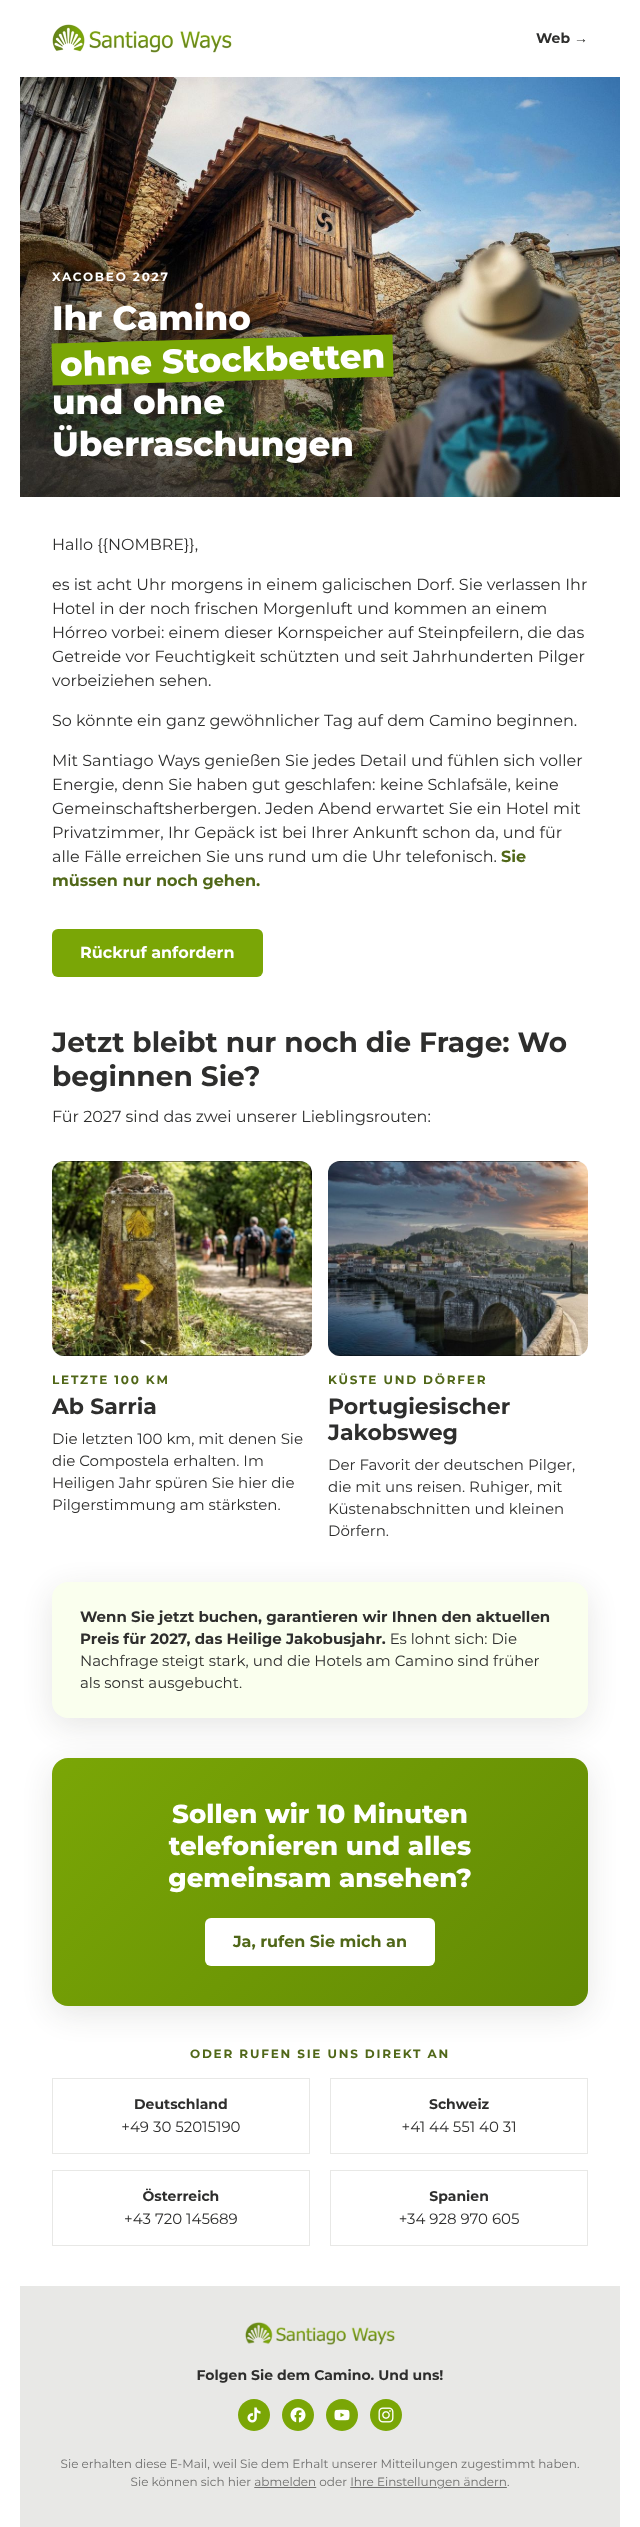
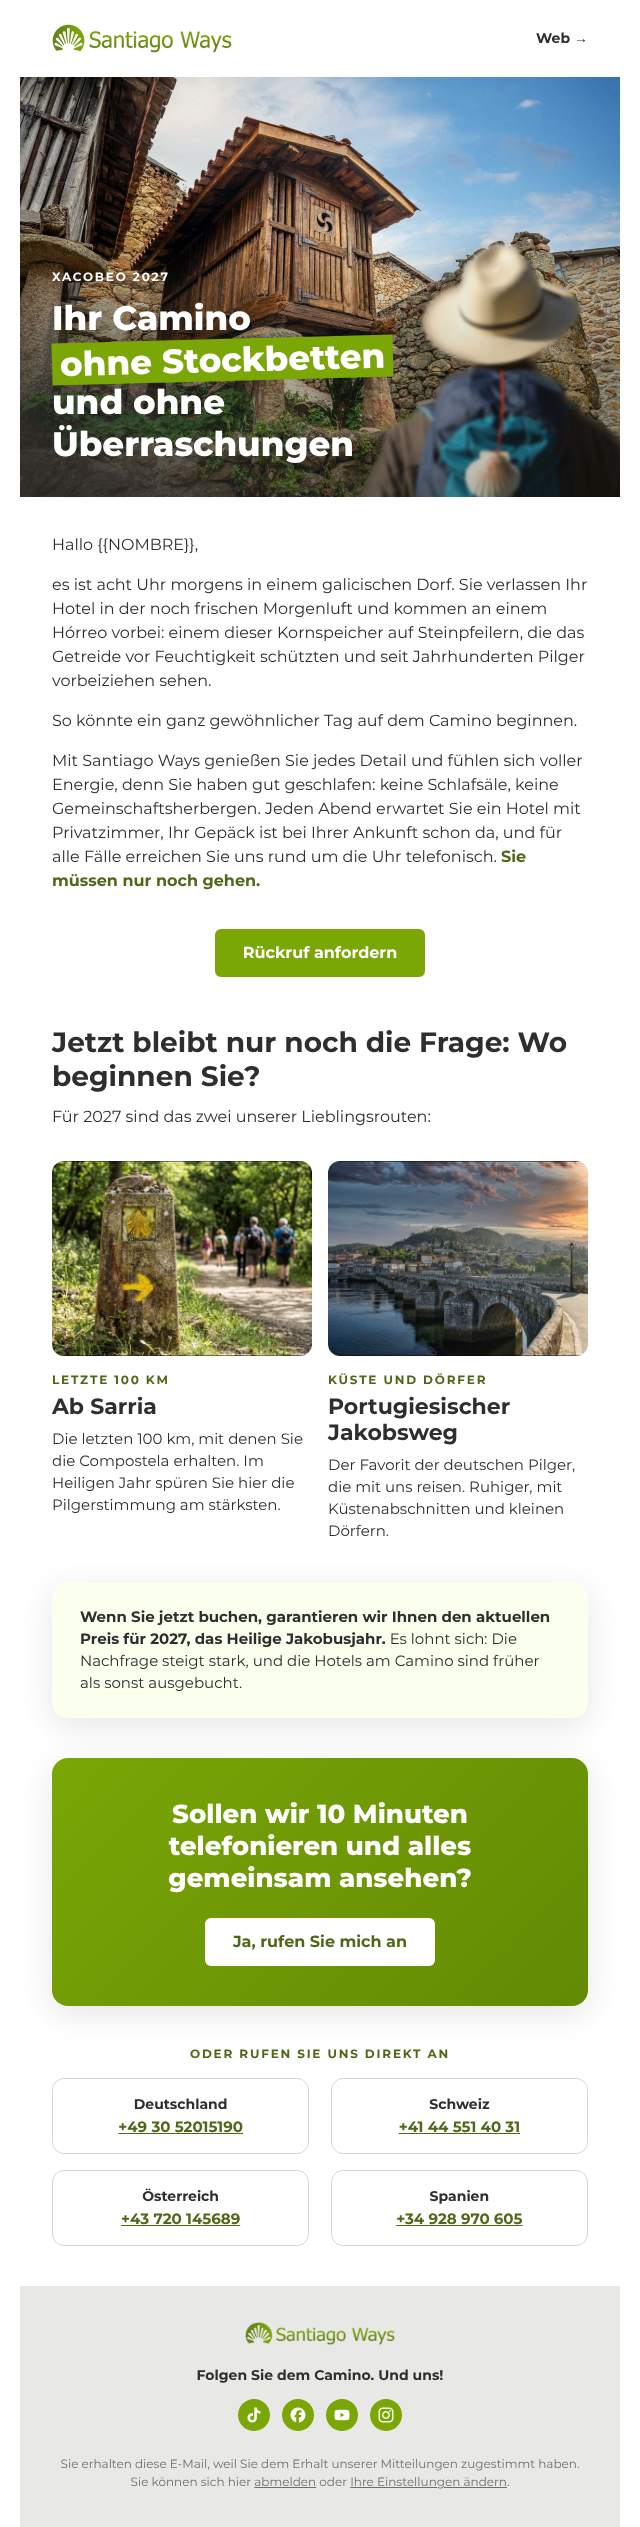
Añade enlaces definitivos, centra el CTA y redondea las tarjetas de teléfono
Claude-Session: https://claude.ai/code/session_01Me985ukrjjPqHCtXmJhT7t

diff --git a/emails/2026-10-push-de-envio1/email.html b/emails/2026-10-push-de-envio1/email.html
@@ -106,11 +106,11 @@
 
           <!-- CTA principal -->
           <tr>
-            <td class="pad" align="left" style="padding:28px 32px 48px;">
-              <table role="presentation" cellpadding="0" cellspacing="0" border="0">
+            <td class="pad" align="center" style="padding:28px 32px 48px;">
+              <table role="presentation" cellpadding="0" cellspacing="0" border="0" align="center">
                 <tr>
                   <td bgcolor="#7AA606" style="background-color:#7AA606; border-radius:6px;">
-                    <a href="{{URL_ZOHO_FORMS_CTA_ARRIBA}}" target="_blank" style="display:inline-block; padding:14px 28px; font-family:'Montserrat', Arial, Helvetica, sans-serif; font-size:16px; line-height:20px; font-weight:700; color:#FFFFFF; text-decoration:none; border-radius:6px;">Rückruf anfordern</a>
+                    <a href="https://forms.zohopublic.com/santiagoways/form/rueckruf/formperma/4A1Vr0SY3x6PB5LVbDz1jbqyLyayzFhMqCk7CxDHHfw" target="_blank" style="display:inline-block; padding:14px 28px; font-family:'Montserrat', Arial, Helvetica, sans-serif; font-size:16px; line-height:20px; font-weight:700; color:#FFFFFF; text-decoration:none; border-radius:6px;">Rückruf anfordern</a>
                   </td>
                 </tr>
               </table>
@@ -131,16 +131,16 @@
               <table role="presentation" width="100%" cellpadding="0" cellspacing="0" border="0">
                 <tr>
                   <td class="ruta" width="260" valign="top" style="width:260px; font-family:'Montserrat', Arial, Helvetica, sans-serif;">
-                    <a href="{{URL_RUTA_SARRIA}}" target="_blank"><img class="ruta-img" src="img/ruta-sarria.jpg" width="260" alt="Steinerner Wegweiser mit gelber Muschel und Pfeil, dahinter Pilger auf einem Waldweg bei Sarria" style="display:block; border:0; width:260px; max-width:260px; height:auto; border-radius:12px;"></a>
+                    <a href="https://santiagoways.com/de/der-jakobsweg/camino-frances/ab-sarria/?utm_source=zoho_campaigns&amp;utm_medium=newsletter&amp;utm_campaign=push_de&amp;utm_content=envio1" target="_blank"><img class="ruta-img" src="img/ruta-sarria.jpg" width="260" alt="Steinerner Wegweiser mit gelber Muschel und Pfeil, dahinter Pilger auf einem Waldweg bei Sarria" style="display:block; border:0; width:260px; max-width:260px; height:auto; border-radius:12px;"></a>
                     <p style="margin:16px 0 6px; font-size:12px; line-height:16px; font-weight:700; letter-spacing:0.15em; text-transform:uppercase; color:#506718;">Letzte 100 km</p>
-                    <p class="ruta-t" style="margin:0 0 8px; font-size:22px; line-height:26px; font-weight:700;"><a href="{{URL_RUTA_SARRIA}}" target="_blank" style="color:#2E2E2D; text-decoration:none;">Ab Sarria</a></p>
+                    <p class="ruta-t" style="margin:0 0 8px; font-size:22px; line-height:26px; font-weight:700;"><a href="https://santiagoways.com/de/der-jakobsweg/camino-frances/ab-sarria/?utm_source=zoho_campaigns&amp;utm_medium=newsletter&amp;utm_campaign=push_de&amp;utm_content=envio1" target="_blank" style="color:#2E2E2D; text-decoration:none;">Ab Sarria</a></p>
                     <p class="ruta-p" style="margin:0; font-size:15px; line-height:22px; color:#2E2E2D;">Die letzten 100 km, mit denen Sie die Compostela erhalten. Im Heiligen Jahr spüren Sie hier die Pilgerstimmung am stärksten.</p>
                   </td>
                   <td class="ruta-sep" width="16" style="width:16px; font-size:0; line-height:0;">&nbsp;</td>
                   <td class="ruta" width="260" valign="top" style="width:260px; font-family:'Montserrat', Arial, Helvetica, sans-serif;">
-                    <a href="{{URL_RUTA_PORTUGUES}}" target="_blank"><img class="ruta-img" src="img/ruta-portugues.jpg" width="260" alt="Alte Steinbrücke über einen Fluss, dahinter ein Dorf am Portugiesischen Jakobsweg bei Sonnenuntergang" style="display:block; border:0; width:260px; max-width:260px; height:auto; border-radius:12px;"></a>
+                    <a href="https://santiagoways.com/de/der-jakobsweg/camino-portugues-kuestenweg/ab-baiona/?utm_source=zoho_campaigns&amp;utm_medium=newsletter&amp;utm_campaign=push_de&amp;utm_content=envio1" target="_blank"><img class="ruta-img" src="img/ruta-portugues.jpg" width="260" alt="Alte Steinbrücke über einen Fluss, dahinter ein Dorf am Portugiesischen Jakobsweg bei Sonnenuntergang" style="display:block; border:0; width:260px; max-width:260px; height:auto; border-radius:12px;"></a>
                     <p style="margin:16px 0 6px; font-size:12px; line-height:16px; font-weight:700; letter-spacing:0.15em; text-transform:uppercase; color:#506718;">Küste und Dörfer</p>
-                    <p class="ruta-t" style="margin:0 0 8px; font-size:22px; line-height:26px; font-weight:700;"><a href="{{URL_RUTA_PORTUGUES}}" target="_blank" style="color:#2E2E2D; text-decoration:none;">Portugiesischer Jakobsweg</a></p>
+                    <p class="ruta-t" style="margin:0 0 8px; font-size:22px; line-height:26px; font-weight:700;"><a href="https://santiagoways.com/de/der-jakobsweg/camino-portugues-kuestenweg/ab-baiona/?utm_source=zoho_campaigns&amp;utm_medium=newsletter&amp;utm_campaign=push_de&amp;utm_content=envio1" target="_blank" style="color:#2E2E2D; text-decoration:none;">Portugiesischer Jakobsweg</a></p>
                     <p class="ruta-p" style="margin:0; font-size:15px; line-height:22px; color:#2E2E2D;">Der Favorit der deutschen Pilger, die mit uns reisen. Ruhiger, mit Küstenabschnitten und kleinen Dörfern.</p>
                   </td>
                 </tr>
@@ -171,7 +171,7 @@
                     <table role="presentation" cellpadding="0" cellspacing="0" border="0" align="center">
                       <tr>
                         <td bgcolor="#FFFFFF" style="background-color:#FFFFFF; border-radius:6px;">
-                          <a href="{{URL_ZOHO_FORMS_CTA_CIERRE}}" target="_blank" style="display:inline-block; padding:14px 28px; font-family:'Montserrat', Arial, Helvetica, sans-serif; font-size:16px; line-height:20px; font-weight:700; color:#506718; text-decoration:none; border-radius:6px;">Ja, rufen Sie mich an</a>
+                          <a href="https://forms.zohopublic.com/santiagoways/form/rueckruf/formperma/4A1Vr0SY3x6PB5LVbDz1jbqyLyayzFhMqCk7CxDHHfw" target="_blank" style="display:inline-block; padding:14px 28px; font-family:'Montserrat', Arial, Helvetica, sans-serif; font-size:16px; line-height:20px; font-weight:700; color:#506718; text-decoration:none; border-radius:6px;">Ja, rufen Sie mich an</a>
                         </td>
                       </tr>
                     </table>
@@ -189,26 +189,38 @@
                   <td colspan="3" align="center" style="padding:0 0 16px; font-family:'Montserrat', Arial, Helvetica, sans-serif; font-size:12px; line-height:16px; font-weight:700; letter-spacing:0.15em; text-transform:uppercase; color:#506718;">Oder rufen Sie uns direkt an</td>
                 </tr>
                 <tr>
-                  <td width="48%" align="center" style="width:48%; border:1px solid #E8E8E6; border-radius:12px; padding:16px 8px; font-family:'Montserrat', Arial, Helvetica, sans-serif; color:#2E2E2D;">
-                    <p style="margin:0 0 4px; font-size:14px; line-height:18px; font-weight:700;">Deutschland</p>
-                    <a class="tel" href="tel:+493052015190" style="font-size:15px; line-height:20px; color:#2E2E2D; text-decoration:none;">+49 30 52015190</a>
+                  <td width="48%" valign="top" style="width:48%;">
+                    <table role="presentation" width="100%" cellpadding="0" cellspacing="0" border="0" style="border-collapse:separate; border:1px solid #D6D6D3; border-radius:12px; background-color:#FFFFFF;">
+                      <tr>
+                        <td align="center" style="border-radius:12px; font-family:'Montserrat', Arial, Helvetica, sans-serif;"><a href="tel:+493052015190" style="display:block; padding:16px 8px; color:#2E2E2D; text-decoration:none;"><span style="display:block; font-size:14px; line-height:18px; font-weight:700; color:#2E2E2D;">Deutschland</span><span class="tel" style="display:block; margin-top:4px; font-size:15px; line-height:20px; color:#506718; font-weight:700; text-decoration:underline;">+49 30 52015190</span></a></td>
+                      </tr>
+                    </table>
                   </td>
                   <td width="16" style="width:16px; font-size:0; line-height:0;">&nbsp;</td>
-                  <td width="48%" align="center" style="width:48%; border:1px solid #E8E8E6; border-radius:12px; padding:16px 8px; font-family:'Montserrat', Arial, Helvetica, sans-serif; color:#2E2E2D;">
-                    <p style="margin:0 0 4px; font-size:14px; line-height:18px; font-weight:700;">Schweiz</p>
-                    <a class="tel" href="tel:+41445514031" style="font-size:15px; line-height:20px; color:#2E2E2D; text-decoration:none;">+41 44 551 40 31</a>
+                  <td width="48%" valign="top" style="width:48%;">
+                    <table role="presentation" width="100%" cellpadding="0" cellspacing="0" border="0" style="border-collapse:separate; border:1px solid #D6D6D3; border-radius:12px; background-color:#FFFFFF;">
+                      <tr>
+                        <td align="center" style="border-radius:12px; font-family:'Montserrat', Arial, Helvetica, sans-serif;"><a href="tel:+41445514031" style="display:block; padding:16px 8px; color:#2E2E2D; text-decoration:none;"><span style="display:block; font-size:14px; line-height:18px; font-weight:700; color:#2E2E2D;">Schweiz</span><span class="tel" style="display:block; margin-top:4px; font-size:15px; line-height:20px; color:#506718; font-weight:700; text-decoration:underline;">+41 44 551 40 31</span></a></td>
+                      </tr>
+                    </table>
                   </td>
                 </tr>
                 <tr><td colspan="3" height="16" style="height:16px; font-size:0; line-height:0;">&nbsp;</td></tr>
                 <tr>
-                  <td width="48%" align="center" style="width:48%; border:1px solid #E8E8E6; border-radius:12px; padding:16px 8px; font-family:'Montserrat', Arial, Helvetica, sans-serif; color:#2E2E2D;">
-                    <p style="margin:0 0 4px; font-size:14px; line-height:18px; font-weight:700;">Österreich</p>
-                    <a class="tel" href="tel:+43720145689" style="font-size:15px; line-height:20px; color:#2E2E2D; text-decoration:none;">+43 720 145689</a>
+                  <td width="48%" valign="top" style="width:48%;">
+                    <table role="presentation" width="100%" cellpadding="0" cellspacing="0" border="0" style="border-collapse:separate; border:1px solid #D6D6D3; border-radius:12px; background-color:#FFFFFF;">
+                      <tr>
+                        <td align="center" style="border-radius:12px; font-family:'Montserrat', Arial, Helvetica, sans-serif;"><a href="tel:+43720145689" style="display:block; padding:16px 8px; color:#2E2E2D; text-decoration:none;"><span style="display:block; font-size:14px; line-height:18px; font-weight:700; color:#2E2E2D;">Österreich</span><span class="tel" style="display:block; margin-top:4px; font-size:15px; line-height:20px; color:#506718; font-weight:700; text-decoration:underline;">+43 720 145689</span></a></td>
+                      </tr>
+                    </table>
                   </td>
                   <td width="16" style="width:16px; font-size:0; line-height:0;">&nbsp;</td>
-                  <td width="48%" align="center" style="width:48%; border:1px solid #E8E8E6; border-radius:12px; padding:16px 8px; font-family:'Montserrat', Arial, Helvetica, sans-serif; color:#2E2E2D;">
-                    <p style="margin:0 0 4px; font-size:14px; line-height:18px; font-weight:700;">Spanien</p>
-                    <a class="tel" href="tel:+34928970605" style="font-size:15px; line-height:20px; color:#2E2E2D; text-decoration:none;">+34 928 970 605</a>
+                  <td width="48%" valign="top" style="width:48%;">
+                    <table role="presentation" width="100%" cellpadding="0" cellspacing="0" border="0" style="border-collapse:separate; border:1px solid #D6D6D3; border-radius:12px; background-color:#FFFFFF;">
+                      <tr>
+                        <td align="center" style="border-radius:12px; font-family:'Montserrat', Arial, Helvetica, sans-serif;"><a href="tel:+34928970605" style="display:block; padding:16px 8px; color:#2E2E2D; text-decoration:none;"><span style="display:block; font-size:14px; line-height:18px; font-weight:700; color:#2E2E2D;">Spanien</span><span class="tel" style="display:block; margin-top:4px; font-size:15px; line-height:20px; color:#506718; font-weight:700; text-decoration:underline;">+34 928 970 605</span></a></td>
+                      </tr>
+                    </table>
                   </td>
                 </tr>
               </table>
@@ -222,10 +234,10 @@
               <p style="margin:0 0 14px; font-size:14px; line-height:20px; font-weight:700; color:#2E2E2D;">Folgen Sie dem Camino. Und uns!</p>
               <table role="presentation" cellpadding="0" cellspacing="0" border="0" align="center" style="margin:0 auto 24px;">
                 <tr>
-                  <td style="padding:0 6px;"><a href="{{URL_TIKTOK}}" target="_blank"><img src="img/icono-tiktok.png" width="32" height="32" alt="TikTok" style="display:block; border:0;"></a></td>
-                  <td style="padding:0 6px;"><a href="{{URL_FACEBOOK}}" target="_blank"><img src="img/icono-facebook.png" width="32" height="32" alt="Facebook" style="display:block; border:0;"></a></td>
-                  <td style="padding:0 6px;"><a href="{{URL_YOUTUBE}}" target="_blank"><img src="img/icono-youtube.png" width="32" height="32" alt="YouTube" style="display:block; border:0;"></a></td>
-                  <td style="padding:0 6px;"><a href="{{URL_INSTAGRAM}}" target="_blank"><img src="img/icono-instagram.png" width="32" height="32" alt="Instagram" style="display:block; border:0;"></a></td>
+                  <td style="padding:0 6px;"><a href="https://www.tiktok.com/@santiagoways/video/7612953078874049812" target="_blank"><img src="img/icono-tiktok.png" width="32" height="32" alt="TikTok" style="display:block; border:0;"></a></td>
+                  <td style="padding:0 6px;"><a href="https://www.facebook.com/SantiagoWaysDe/" target="_blank"><img src="img/icono-facebook.png" width="32" height="32" alt="Facebook" style="display:block; border:0;"></a></td>
+                  <td style="padding:0 6px;"><a href="https://www.youtube.com/@santiago_ways" target="_blank"><img src="img/icono-youtube.png" width="32" height="32" alt="YouTube" style="display:block; border:0;"></a></td>
+                  <td style="padding:0 6px;"><a href="https://www.instagram.com/santiago_ways_de/" target="_blank"><img src="img/icono-instagram.png" width="32" height="32" alt="Instagram" style="display:block; border:0;"></a></td>
                 </tr>
               </table>
               <p style="margin:0; font-size:12px; line-height:18px; color:#6F6F6E;">Sie erhalten diese E-Mail, weil Sie dem Erhalt unserer Mitteilungen zugestimmt haben.<br>Sie können sich hier <a href="$[LI:UNSUBSCRIBE]$" target="_blank" style="color:#6F6F6E; text-decoration:underline;">abmelden</a> oder <a href="{{URL_PREFERENCIAS}}" target="_blank" style="color:#6F6F6E; text-decoration:underline;">Ihre Einstellungen ändern</a>.</p>

diff --git a/emails/2026-10-push-de-envio1/brief.md b/emails/2026-10-push-de-envio1/brief.md
@@ -23,12 +23,17 @@
 | `ruta-portugues.jpg` | 260 px | Ruta 2 |
 | `icono-tiktok.png`, `icono-facebook.png`, `icono-youtube.png`, `icono-instagram.png` | 32 px | Redes |
 
+## Enlaces aplicados
+
+- Cabecera (logo y "Web"): web DE con UTM `push_de` / `envio1`.
+- Botones "Rückruf anfordern" y "Ja, rufen Sie mich an": Zoho Forms `rueckruf`.
+- Rutas: Ab Sarria y Camino Portugués (Küstenweg, ab Baiona), con UTM.
+- Teléfonos: enlaces `tel:` en toda la tarjeta.
+- Redes: TikTok (enlace a un vídeo), Facebook DE, YouTube, Instagram DE.
+
 ## Pendiente
 
 - URLs públicas de las 8 imágenes (sustituyen a las rutas `img/...`; la del hero va en 3 sitios).
-- `{{URL_ZOHO_FORMS_CTA_ARRIBA}}`, `{{URL_ZOHO_FORMS_CTA_CIERRE}}`.
-- `{{URL_RUTA_SARRIA}}`, `{{URL_RUTA_PORTUGUES}}`.
-- `{{URL_TIKTOK}}`, `{{URL_FACEBOOK}}`, `{{URL_YOUTUBE}}`, `{{URL_INSTAGRAM}}`.
 - `{{NOMBRE}}`: etiqueta de Zoho y saludo alternativo si falta el nombre.
 - `{{URL_PREFERENCIAS}}`: etiqueta de Zoho o eliminar el enlace.
 - Asunto y preheader elegidos para el test A/B.
